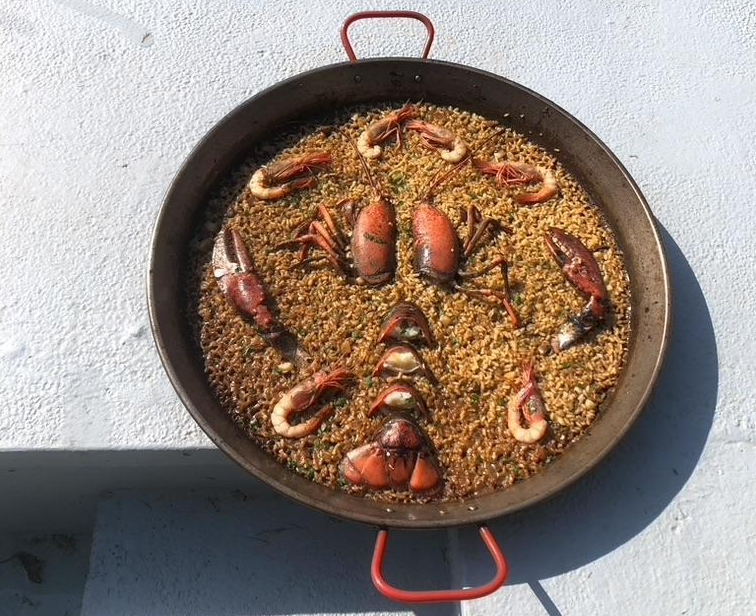
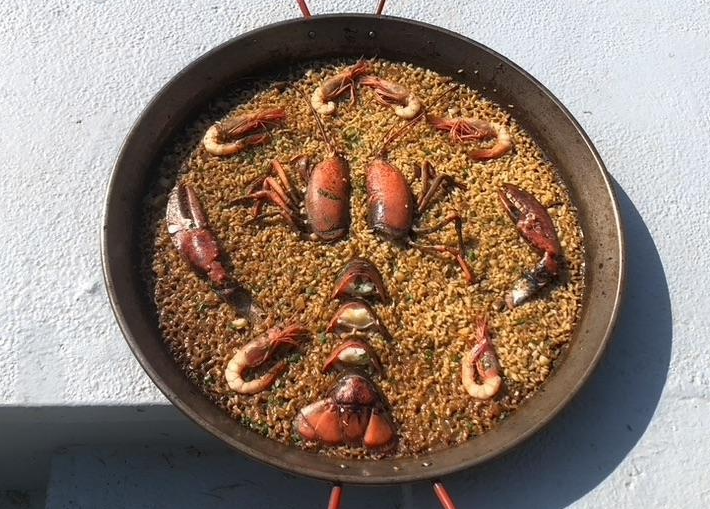
Insta, smoothscroll, hero carroussel

diff --git a/components/InstagramFeed.tsx b/components/InstagramFeed.tsx
@@ -1,0 +1,77 @@
+'use client';
+
+import { useTranslations } from 'next-intl';
+import { motion } from 'framer-motion';
+import { Instagram } from 'lucide-react';
+import Image from 'next/image';
+
+const POSTS = [
+  { id: 1, src: '/image1.jpg', alt: 'Instagram Post 1', link: 'https://instagram.com' },
+  { id: 2, src: '/image2.jpg', alt: 'Instagram Post 2', link: 'https://instagram.com' },
+  { id: 3, src: '/image3.jpg', alt: 'Instagram Post 3', link: 'https://instagram.com' },
+  { id: 4, src: '/image4.jpg', alt: 'Instagram Post 4', link: 'https://instagram.com' },
+];
+
+export default function InstagramFeed() {
+  const t = useTranslations('Home');
+
+  return (
+    <section className="py-24 bg-white text-neutral-900">
+      <div className="container mx-auto px-4">
+        
+        {/* Header */}
+        <div className="text-center mb-16">
+          <motion.div
+            initial={{ opacity: 0, y: 20 }}
+            whileInView={{ opacity: 1, y: 0 }}
+            viewport={{ once: true }}
+            className="flex flex-col items-center justify-center gap-4"
+          >
+            <Instagram size={40} className="text-neutral-900" />
+            <h2 className="text-4xl font-bold font-serif">{t('followUs')}</h2>
+            <a 
+              href="https://instagram.com/arrossetsgo/" 
+              target="_blank" 
+              rel="noopener noreferrer"
+              className="text-lg font-body text-gray-500 hover:text-[#FF6663] transition-colors"
+            >
+              @arrossetsgo
+            </a>
+          </motion.div>
+        </div>
+
+        {/* Grid */}
+        <div className="grid grid-cols-1 md:grid-cols-2 lg:grid-cols-4 gap-4">
+          {POSTS.map((post, index) => (
+            <motion.a
+              key={post.id}
+              href={post.link}
+              target="_blank"
+              rel="noopener noreferrer"
+              initial={{ opacity: 0, y: 20 }}
+              whileInView={{ opacity: 1, y: 0 }}
+              viewport={{ once: true }}
+              transition={{ delay: index * 0.1 }}
+              className="group relative aspect-square overflow-hidden bg-gray-100 block"
+            >
+              <Image
+                src={post.src}
+                alt={post.alt}
+                fill
+                className="object-cover transition-transform duration-500 group-hover:scale-110"
+              />
+              
+              {/* Overlay */}
+              <div className="absolute inset-0 bg-black/50 opacity-0 group-hover:opacity-100 transition-opacity duration-300 flex items-center justify-center">
+                <span className="text-white font-body font-bold tracking-widest uppercase text-sm border-b pb-1 border-white">
+                  {t('viewProfile')}
+                </span>
+              </div>
+            </motion.a>
+          ))}
+        </div>
+
+      </div>
+    </section>
+  );
+}

diff --git a/components/Hero.tsx b/components/Hero.tsx
@@ -1,0 +1,66 @@
+'use client';
+
+import { useState, useEffect } from 'react';
+import { useTranslations } from 'next-intl';
+import { motion, AnimatePresence } from 'framer-motion';
+import Image from 'next/image';
+
+const HERO_IMAGES = [
+  '/hero-image.png',
+  '/image1.jpg', 
+  '/image2.jpg',
+  '/image3.jpg'
+];
+
+export default function Hero() {
+  const t = useTranslations('Home');
+  const [currentImageIndex, setCurrentImageIndex] = useState(0);
+
+  useEffect(() => {
+    const interval = setInterval(() => {
+      setCurrentImageIndex((prevIndex) => (prevIndex + 1) % HERO_IMAGES.length);
+    }, 6000);
+
+    return () => clearInterval(interval);
+  }, []);
+
+  return (
+    <section className="relative h-screen w-full overflow-hidden flex items-center justify-center">
+      {/* Background Carousel */}
+      <div className="absolute inset-0 z-0">
+        <AnimatePresence mode="popLayout">
+          <motion.div
+            key={currentImageIndex}
+            initial={{ opacity: 0 }}
+            animate={{ opacity: 1 }}
+            exit={{ opacity: 0 }}
+            transition={{ duration: 1.5 }}
+            className="absolute inset-0 w-full h-full"
+          >
+             <Image
+                src={HERO_IMAGES[currentImageIndex]}
+                alt="Hero Background"
+                fill
+                priority={true} // Priority loading creates better LCP
+                quality={100}
+                className="object-cover object-center"
+              />
+          </motion.div>
+        </AnimatePresence>
+        <div className="absolute inset-0 bg-black/30 z-10" />
+      </div>
+
+      {/* Content */}
+      <div className="relative z-20 text-center px-4 max-w-4xl mx-auto">
+        <motion.h1 
+          initial={{ opacity: 0, y: 30 }}
+          animate={{ opacity: 1, y: 0 }}
+          transition={{ duration: 0.8, ease: "easeOut" }}
+          className="text-5xl md:text-7xl font-bold font-serif text-white mb-6 tracking-tight leading-tight"
+        >
+          {t('heroTitle')}
+        </motion.h1>
+      </div>
+    </section>
+  );
+}

diff --git a/app/[locale]/page.tsx b/app/[locale]/page.tsx
@@ -5,6 +5,8 @@ import { motion } from 'framer-motion';
 import Link from 'next/link';
 import Image from 'next/image';
 import { useParams } from 'next/navigation';
+import InstagramFeed from '../../components/InstagramFeed';
+import Hero from '../../components/Hero';
 
 export default function Home() {
   const t = useTranslations('Home');
@@ -13,32 +15,7 @@ export default function Home() {
 
   return (
     <>
-      {/* Hero Section */}
-      <section className="relative h-screen w-full overflow-hidden flex items-center justify-center">
-        {/* Background Image */}
-        <div className="absolute inset-0 z-0">
-          <Image
-            src="/hero-image.png"
-            alt="Hero Background"
-            fill
-            priority
-            quality={100}
-            className="object-cover object-center"
-          />
-          <div className="absolute inset-0 bg-black/20 z-10" />
-        </div>
-
-        <div className="relative z-10 text-center px-4 max-w-4xl mx-auto">
-          <motion.h1 
-            initial={{ opacity: 0, y: 30 }}
-            animate={{ opacity: 1, y: 0 }}
-            transition={{ duration: 0.8, ease: "easeOut" }}
-            className="text-5xl md:text-7xl font-bold font-serif text-white mb-6 tracking-tight leading-tight"
-          >
-            {t('heroTitle')}
-          </motion.h1>
-        </div>
-      </section>
+      <Hero />
 
       {/* Info Section */}
       <section className="py-24 bg-[#F8F3F1] text-black">
@@ -235,6 +212,9 @@ export default function Home() {
             </div>
         </div>
       </section>
+
+      {/* Instagram Feed Section */}
+      <InstagramFeed />
     </>
   );
 }

diff --git a/components/Footer.tsx b/components/Footer.tsx
@@ -1,7 +1,7 @@
 'use client';
 
 import { useTranslations } from 'next-intl';
-import { Instagram } from 'lucide-react';
+import { Instagram, Linkedin } from 'lucide-react';
 
 export default function Footer() {
   const t = useTranslations('Footer');
@@ -20,11 +20,13 @@ export default function Footer() {
         
         
         {/* Social Icons */}
-        <div className="flex justify-center space-x-6 mb-6 text-gray-400 hover:text-white transition-colors duration-300">
-            <a href="https://instagram.com" target="_blank" rel="noopener noreferrer" aria-label="Instagram">
+        <div className="flex justify-center items-center space-x-6 mb-6 text-gray-400">
+            <a href="https://www.instagram.com/arrossetsgo/" target="_blank" rel="noopener noreferrer" aria-label="Instagram" className="hover:text-white transition-colors duration-300">
               <Instagram size={24} />
             </a>
-            <span>|</span>
+            <a href="https://www.linkedin.com/in/oriol-goset-reche-437727150/" target="_blank" rel="noopener noreferrer" aria-label="LinkedIn" className="hover:text-white transition-colors duration-300">
+              <Linkedin size={24} />
+            </a>
             <p className='font-body'>info@arrossetsgo.com </p>
         </div>
 

diff --git a/app/[locale]/layout.tsx b/app/[locale]/layout.tsx
@@ -4,6 +4,7 @@ import { notFound } from 'next/navigation';
 import { Playfair_Display, Courier_Prime } from 'next/font/google';
 import Header from '../../components/Header';
 import Footer from '../../components/Footer';
+import SmoothScrolling from '../../components/SmoothScrolling';
 import "../globals.css";
 
 const playfair = Playfair_Display({
@@ -38,11 +39,13 @@ export default async function LocaleLayout({
     <html lang={locale}>
       <body className={`${playfair.variable} ${courier.variable} antialiased bg-neutral-950 text-neutral-200 font-sans`}>
         <NextIntlClientProvider messages={messages}>
-          <Header locale={locale} />
-          <main className="min-h-screen pt-0 font-body">
-          {children}
-          </main>
-          <Footer />
+          <SmoothScrolling>
+            <Header locale={locale} />
+            <main className="min-h-screen pt-0 font-body">
+            {children}
+            </main>
+            <Footer />
+          </SmoothScrolling>
         </NextIntlClientProvider>
       </body>
     </html>

diff --git a/components/SmoothScrolling.tsx b/components/SmoothScrolling.tsx
@@ -1,0 +1,11 @@
+'use client';
+
+import { ReactLenis } from 'lenis/react';
+
+export default function SmoothScrolling({ children }: { children: React.ReactNode }) {
+  return (
+    <ReactLenis root>
+      {children}
+    </ReactLenis>
+  );
+}
